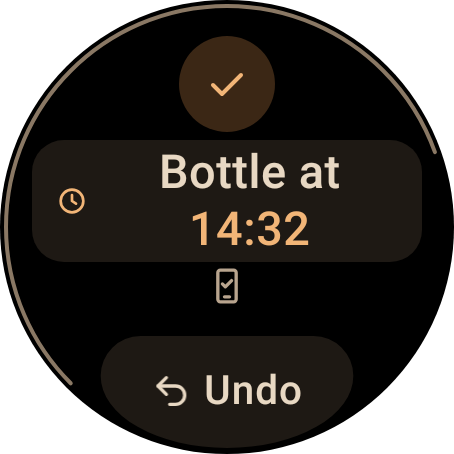
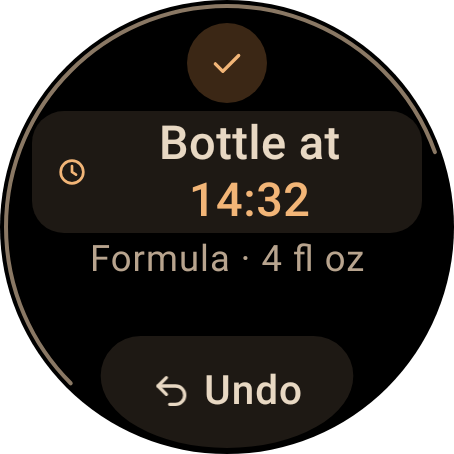
Watch: re-record screenshots for the Bottle screen and Earlier on Side
Adds screenshots of Bottle, its Contents list and Amount screen, the logged
bottle and the Side screen's Earlier, in English and Danish, and shows the
watch's Bottle flow in the README. The Amount screen's -/+ are larger, and on
Logged a second line now steps down or wraps at a soft hyphen at large font
sizes, where the sync icon gives way so nothing slides under Undo.

Claude-Session: https://claude.ai/code/session_01KD7sVhL4KMocM4Y45g8ezG

Changed region(s): [[0.0617, 0.0308, 0.9559, 0.6784]]

diff --git a/wear/src/main/kotlin/com/ffmathy/pooparazzi/wear/logged/LoggedScreen.kt b/wear/src/main/kotlin/com/ffmathy/pooparazzi/wear/logged/LoggedScreen.kt
@@ -152,7 +152,11 @@ fun LoggedScreen(
     // ("Left → Right · 18m") moves the block up a little for the same reason (§3.5.6: sync icon at y 148–168).
     val compact = LocalConfiguration.current.fontScale > 1.15f
     val line2 = receiptLine2(receipt, f)
+    // Both (a large font and a second line, "Formula · 120 ml"): the tightest, with a smaller circle; the second line
+    // may wrap and the sync icon (also on Main) gives way, so nothing slides under Undo.
+    val tight = compact && line2 != null
     val top = when {
+        tight -> 0.05f
         compact -> 0.08f
         line2 != null -> 0.12f
         else -> 0.149f
@@ -185,7 +189,7 @@ fun LoggedScreen(
                     .padding(top = height * top, start = 8.dp, end = 8.dp),
                 horizontalAlignment = Alignment.CenterHorizontally,
             ) {
-                ReceiptCircle(receipt, ambient, size = if (compact) 48.dp else 64.dp)
+                ReceiptCircle(receipt, ambient, size = if (tight) 40.dp else if (compact) 48.dp else 64.dp)
                 Spacer(Modifier.height(if (compact || line2 != null) 4.dp else 8.dp))
                 ReceiptTitle(
                     receipt,
@@ -197,17 +201,19 @@ fun LoggedScreen(
                 )
                 line2?.let { line ->
                     Spacer(Modifier.height(2.dp))
-                    Text(
+                    // Steps down rather than running into the round edge ("Modermælkserstatning · 120 ml").
+                    AutoSizeLine(
                         line.shown,
-                        style = MaterialTheme.typography.bodyMedium,
-                        color = if (ambient) WatchAmbient.content else MaterialTheme.colorScheme.onSurfaceVariant,
-                        maxLines = 1,
-                        textAlign = TextAlign.Center,
-                        modifier = Modifier.semantics { contentDescription = line.spoken },
+                        // Wraps at the soft hyphen ("Modermælks-erstatning"), never mid-syllable.
+                        MaterialTheme.typography.bodyMedium.copy(hyphens = Hyphens.Auto),
+                        if (ambient) WatchAmbient.content else MaterialTheme.colorScheme.onSurfaceVariant,
+                        minSize = 11,
+                        maxLines = if (tight) 2 else 1,
+                        modifier = Modifier.padding(horizontal = 12.dp).semantics { contentDescription = line.spoken },
                     )
                 }
                 val syncText = if (sync == SyncStatus.Pending) null else f.labels.syncLine(sync, SyncPeer.PHONE, f.clock, f.zone)
-                if (syncText != null) {
+                if (syncText != null && !tight) {
                     Spacer(Modifier.height(2.dp))
                     SyncIcon(sync, syncText)
                 }

diff --git a/wear/src/test/kotlin/com/ffmathy/pooparazzi/wear/WearNavHostTest.kt b/wear/src/test/kotlin/com/ffmathy/pooparazzi/wear/WearNavHostTest.kt
@@ -24,6 +24,7 @@ import com.ffmathy.pooparazzi.core.data.FixedClock
 import com.ffmathy.pooparazzi.core.data.RoomEntryRepository
 import com.ffmathy.pooparazzi.core.data.PooparazziDatabase
 import com.ffmathy.pooparazzi.core.domain.epochMillis
+import com.ffmathy.pooparazzi.core.format.VolumeFormatter
 import com.ffmathy.pooparazzi.core.model.Entry
 import com.ffmathy.pooparazzi.core.model.PoopColor
 import com.ffmathy.pooparazzi.core.model.isRunning
@@ -173,36 +174,40 @@ class WearNavHostTest {
         waitFor("Bottle · 14:32")
         settle(1_000)
 
+        // The steps follow the region (10 ml, or ½ fl oz in the US), so the expected amount comes from the formatter.
+        val volume = VolumeFormatter.from(ApplicationProvider.getApplicationContext())
+        val amount = volume.amountAt(3)!!
+        val shown = volume.format(amount)
         compose.onNodeWithText("Amount").performClick()
         waitForDescription("Amount, No amount")
         settle(600)
         repeat(3) {
-            compose.onNodeWithContentDescription("10 ml more").performClick()
+            compose.onNodeWithContentDescription(" more", substring = true).performClick()
             settle()
         }
-        waitForDescription("Amount, 30 ml")
+        waitForDescription("Amount, $shown")
         compose.onNodeWithText("Done").performClick()
-        waitFor("30 ml")
+        waitFor(shown)
         settle(1_000)
 
         compose.onNode(hasScrollToIndexAction()).performScrollToIndex(3)
         settle()
-        compose.onNodeWithText("Earlier").performClick()
+        compose.onNodeWithContentDescription("Earlier").performClick()
         waitForDescription("Feed, 14:32")
         settle(600)
         compose.onNodeWithContentDescription("5 minutes earlier").performClick()
         settle()
         compose.onNodeWithText("Done").performClick()
-        waitFor("Bottle · 14:27")
+        waitForDescription("5 minutes earlier, 14:27")
         settle(1_000)
         compose.onNodeWithText("Save").performClick()
 
         waitFor("Bottle at 14:27")
-        waitFor("Formula · 30 ml")
+        waitFor("Formula · $shown")
         val feed = entries().single()
         assertEquals(at(14, 27), feed.startMillis)
         assertEquals(com.ffmathy.pooparazzi.core.model.BottleContents.FORMULA, feed.bottleContents)
-        assertEquals(30, feed.amountMl)
+        assertEquals(amount, feed.amountMl)
     }
 
     @Test

diff --git a/wear/src/main/kotlin/com/ffmathy/pooparazzi/wear/time/TimeScreen.kt b/wear/src/main/kotlin/com/ffmathy/pooparazzi/wear/time/TimeScreen.kt
@@ -23,6 +23,7 @@ import androidx.compose.ui.semantics.clearAndSetSemantics
 import androidx.compose.ui.semantics.contentDescription
 import androidx.compose.ui.semantics.liveRegion
 import androidx.compose.ui.semantics.semantics
+import androidx.compose.ui.text.TextStyle
 import androidx.compose.ui.text.font.FontWeight
 import androidx.compose.ui.text.style.TextAlign
 import androidx.compose.ui.unit.dp
@@ -160,7 +161,14 @@ private const val MINUTE_MILLIS = 60_000L
 
 /** "−5m" / "+5m": a tonal CompactButton, read as "5 minutes earlier" / "5 minutes later". Also the Amount screen's −/+. */
 @Composable
-internal fun StepButton(label: String, spoken: String, enabled: Boolean, onClick: () -> Unit, modifier: Modifier = Modifier) {
+internal fun StepButton(
+    label: String,
+    spoken: String,
+    enabled: Boolean,
+    onClick: () -> Unit,
+    modifier: Modifier = Modifier,
+    style: TextStyle = WatchType.labelSmall.copy(fontWeight = FontWeight(600)),
+) {
     val ambient = isAmbient()
     val content = if (ambient) WatchAmbient.content else MaterialTheme.colorScheme.onSurface
     CompactButton(
@@ -173,7 +181,7 @@ internal fun StepButton(label: String, spoken: String, enabled: Boolean, onClick
     ) {
         Text(
             label,
-            style = WatchType.labelSmall.copy(fontWeight = FontWeight(600)),
+            style = style,
             color = content,
             maxLines = 1,
             textAlign = TextAlign.Center,

diff --git a/wear/src/main/kotlin/com/ffmathy/pooparazzi/wear/feed/AmountScreen.kt b/wear/src/main/kotlin/com/ffmathy/pooparazzi/wear/feed/AmountScreen.kt
@@ -95,6 +95,7 @@ fun AmountScreen(draft: BottleDraft, onAmount: (Int?) -> Unit, onDone: () -> Uni
                         enabled = cooldown.ready && step > 0,
                         onClick = { moveBy(-1) },
                         modifier = Modifier.alpha(cooldown.alpha),
+                        style = MaterialTheme.typography.titleLarge,
                     )
                     StepButton(
                         label = PLUS,
@@ -102,6 +103,7 @@ fun AmountScreen(draft: BottleDraft, onAmount: (Int?) -> Unit, onDone: () -> Uni
                         enabled = cooldown.ready && step < volume.steps,
                         onClick = { moveBy(1) },
                         modifier = Modifier.alpha(cooldown.alpha),
+                        style = MaterialTheme.typography.titleLarge,
                     )
                 }
             }

diff --git a/README.md b/README.md
@@ -111,7 +111,7 @@ All screenshots are rendered by the Roborazzi screenshot tests under Robolectric
 
 | Bottle | Bottle contents | Bottle amount | Logged bottle |
 |:---:|:---:|:---:|:---:|
-| <img src="docs/screenshots/en/watch-bottle.png" width="170" alt="Watch Bottle screen after Bottle: Bottle · 14:32, Contents Formula, Amount 120 ml, Earlier and Save"> | <img src="docs/screenshots/en/watch-bottle-contents.png" width="170" alt="Watch bottle contents list: Milk, Formula selected, None"> | <img src="docs/screenshots/en/watch-bottle-amount.png" width="170" alt="Watch Amount screen: 120 ml, − and + buttons and Done; the crown moves it 10 ml at a time"> | <img src="docs/screenshots/en/watch-logged-bottle.png" width="170" alt="Watch logged bottle feed: Bottle at 14:32, Formula · 120 ml, and Undo"> |
+| <img src="docs/screenshots/en/watch-bottle.png" width="170" alt="Watch Bottle screen after Bottle: Bottle · 14:32, Contents Formula, Amount 4 fl oz (120 ml where millilitres are used), Earlier and Save"> | <img src="docs/screenshots/en/watch-bottle-contents.png" width="170" alt="Watch bottle contents list: Milk, Formula selected, None"> | <img src="docs/screenshots/en/watch-bottle-amount.png" width="170" alt="Watch Amount screen: 4 fl oz, − and + buttons and Done; the crown moves it ½ fl oz (or 10 ml) at a time"> | <img src="docs/screenshots/en/watch-logged-bottle.png" width="170" alt="Watch logged bottle feed: Bottle at 14:32, Formula · 4 fl oz, and Undo"> |
 
 | Undone | Tile | Tile, asleep | Complications |
 |:---:|:---:|:---:|:---:|
